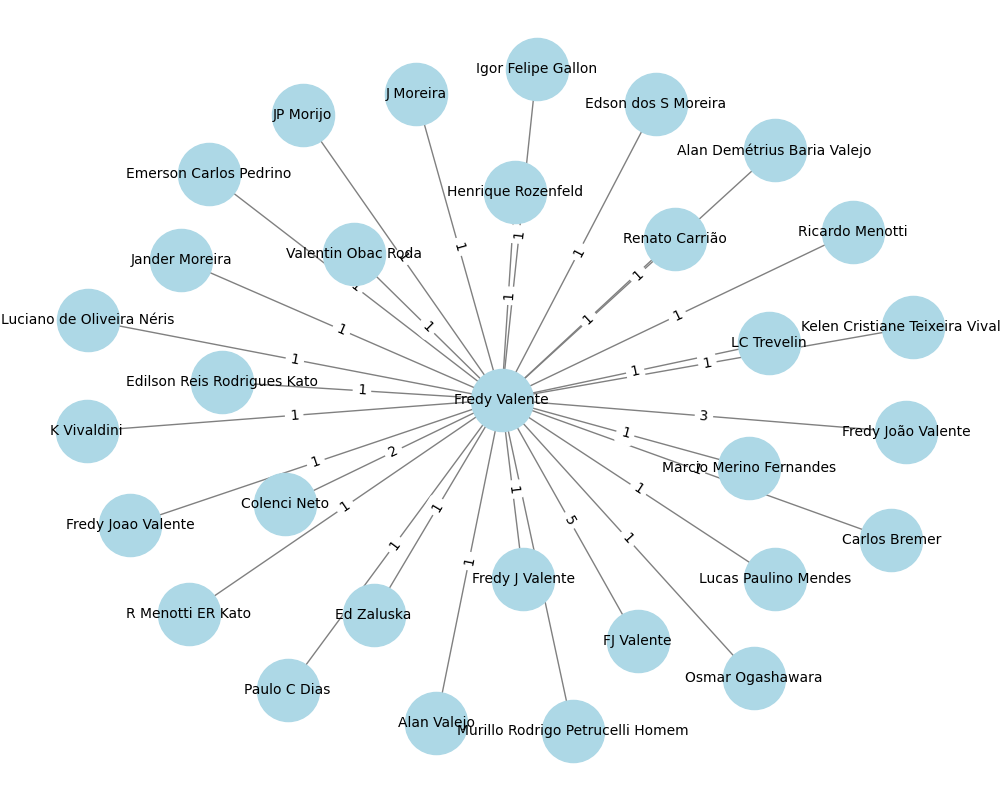
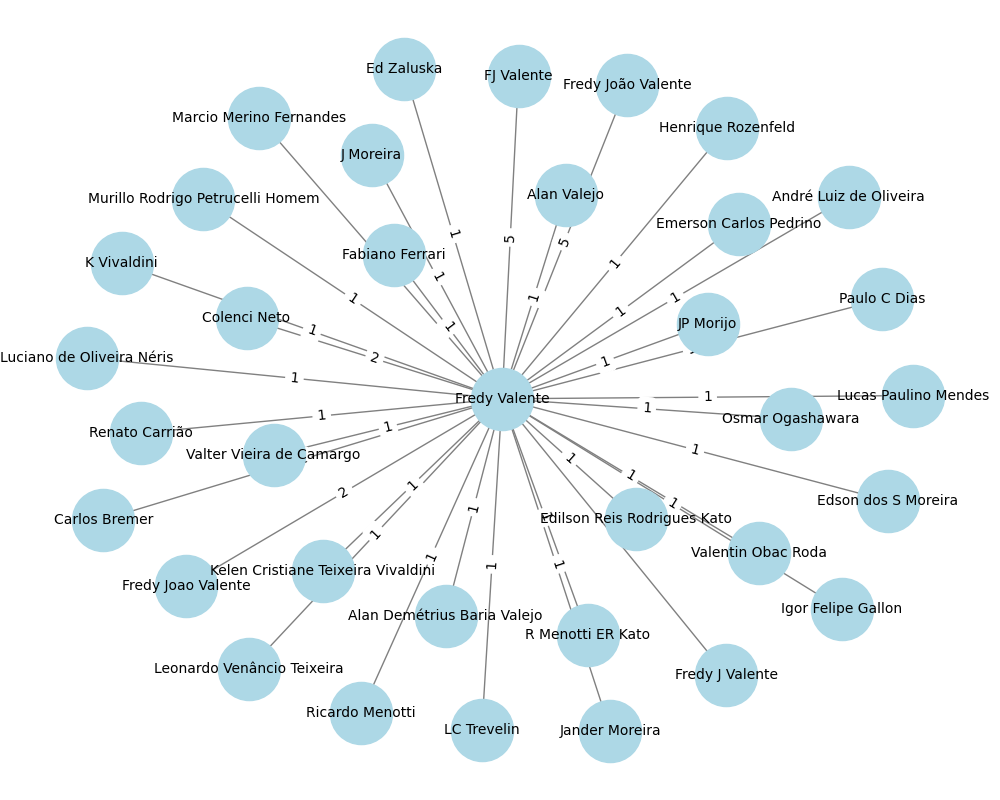
new: api pra servir o grafo / ARRUMAR: CORS

Changed region(s): [[0.0, 0.0312, 1.0, 0.9688]]

diff --git a/web/front_temp.html b/web/front_temp.html
@@ -1,0 +1,53 @@
+<!DOCTYPE html>
+<html>
+<head>
+  <meta charset="UTF-8">
+  <title>Grafo Interativo</title>
+  <!-- Incluindo sigmaJS via CDN -->
+  <script src="https://cdnjs.cloudflare.com/ajax/libs/sigma.js/1.2.1/sigma.min.js"></script>
+  <style>
+    #container {
+      width: 800px;
+      height: 600px;
+      margin: auto;
+      border: 1px solid #ccc;
+    }
+  </style>
+</head>
+<body>
+  <h1>Grafo Interativo</h1>
+  <div id="container"></div>
+  
+  <script>
+    // Busca os dados do grafo da API
+    fetch('https://ideal-space-palm-tree-v5vrqv49xv43pqjg-5000.app.github.dev/api/grafo')
+    .then(response => response.json())
+    .then(data => {
+        var s = new sigma({
+            graph: {
+                nodes: data.nodes.map((node, index) => ({
+                    id: node.id,
+                    label: node.id,
+                    x: Math.random(),
+                    y: Math.random(),
+                    size: 1,
+                    color: '#ec5148'
+                })),
+                edges: data.edges.map((edge, index) => ({
+                    id: 'e' + index,
+                    source: edge.source,
+                    target: edge.target,
+                    size: edge.peso,
+                    color: '#ccc'
+                }))
+            },
+            container: 'container',
+            settings: {
+                defaultNodeColor: '#ec5148'
+            }
+        });
+    })
+    .catch(error => console.error('Erro ao carregar o grafo:', error));
+  </script>
+</body>
+</html>

diff --git a/web/back.py b/web/back.py
@@ -1,0 +1,48 @@
+from flask import Flask, jsonify
+import networkx as nx
+from networkx.readwrite import json_graph
+from scraper import obter_dados_professor
+from grafo_coautoria import gerar_grafo_coautoria
+from flask_cors import CORS
+
+
+app = Flask(__name__)
+CORS(app, resources={
+    r"/api/*": {
+        "origins": ["*"],
+        "methods": ["GET", "OPTIONS"],
+        "allow_headers": ["Content-Type"]
+    }
+})
+
+# Cache para armazenar o grafo (só gera uma vez)
+grafo_cache = None
+
+def processar_grafo():
+    global grafo_cache
+    if grafo_cache is None:
+        print("Gerando grafo de coautoria...")  # Para debug
+        ids_professores = ["G-__GDUAAAAJ"]
+        dados_professores = obter_dados_professor(ids_professores)
+        variacoes_nomes = {
+            "Alan Valejo": {"ADB Valejo", "A Valejo"},
+            "Jo Ueyama": {"J Ueyama"}, 
+            "Alfredo Colenci Neto": {"C Neto"},
+        }
+        grafo_cache = gerar_grafo_coautoria(dados_professores, variacoes_nomes)
+    return grafo_cache
+
+@app.route('/api/grafo', methods=['GET'])
+def get_grafo():
+    grafo = processar_grafo()
+    data = json_graph.node_link_data(grafo)
+
+    formatted_data = {
+        "nodes": [{"id": node, "label": node} for node in data["nodes"]],
+        "edges": [{"source": edge["source"], "target": edge["target"], "weight": edge.get("peso", 1)} for edge in data["links"]]
+    }
+    return jsonify(formatted_data)
+
+if __name__ == '__main__':
+    app.run(debug=False, host='0.0.0.0', port=5000)
+
